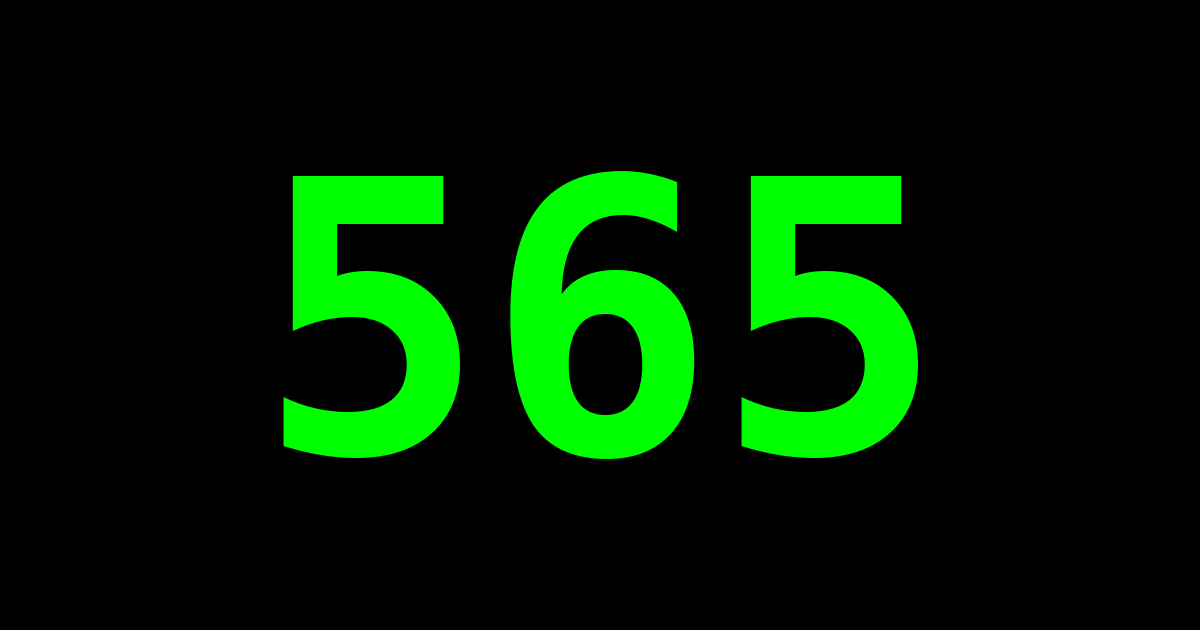
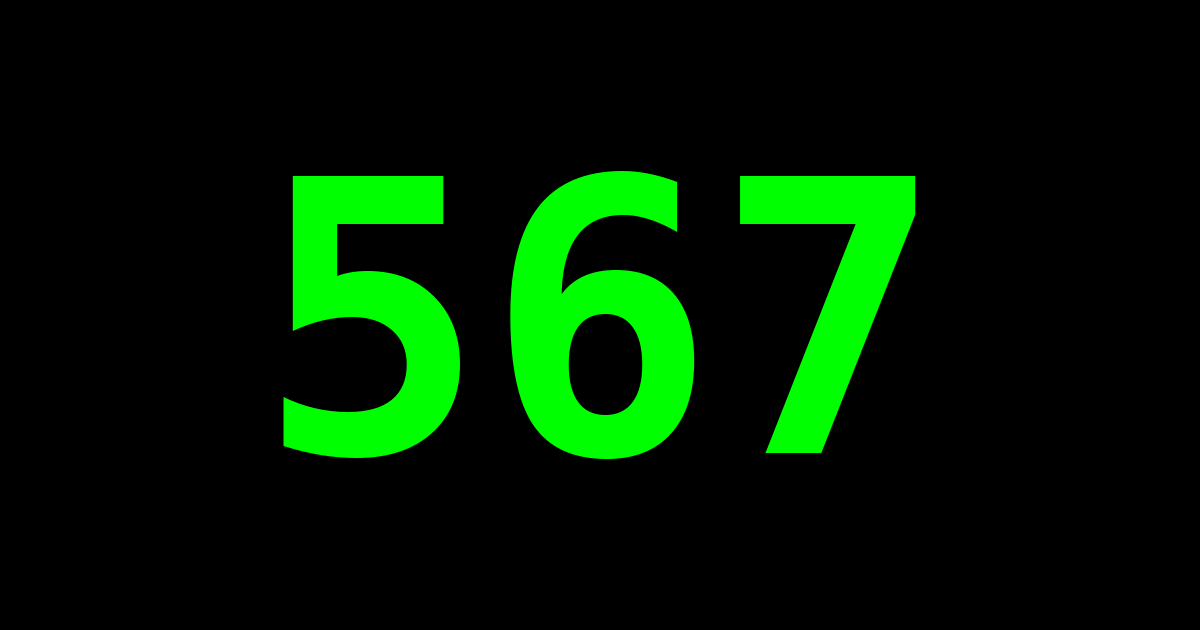
Add files via upload

Changed region(s): [[0.6167, 0.2714, 0.7708, 0.7238]]

diff --git a/index.html b/index.html
@@ -3,10 +3,10 @@
 <head>
 <meta charset="UTF-8">
 <meta name="viewport" content="width=device-width, initial-scale=1.0">
-<title>565</title>
+<title>567</title>
 
 <!-- Preview para WhatsApp/Facebook (Open Graph) -->
-<meta property="og:title" content="565">
+<meta property="og:title" content="567">
 <meta property="og:description" content="Azteca Guate el mejor canal">
 <meta property="og:image" content="https://rdaniel95.github.io/Num/og.png">
 <meta property="og:image:width" content="1200">
@@ -79,12 +79,12 @@
 </style>
 </head>
 <body>
-  <div id="start">565 ▄</div>
+  <div id="start">567 ▄</div>
 
   <div id="hack">
     <div id="stream"></div>
     <div id="big">
-      <div id="num">565</div>
+      <div id="num">567</div>
       <div id="label">Azteca Guate el mejor canal</div>
     </div>
     <div id="flash"></div>
@@ -153,7 +153,7 @@
     startEl.style.display = 'none';
     hackEl.style.display = 'block';
 
-    let n = 565;
+    let n = 567;
     let msgIdx = 0;
 
     // flujo de texto tipo terminal
